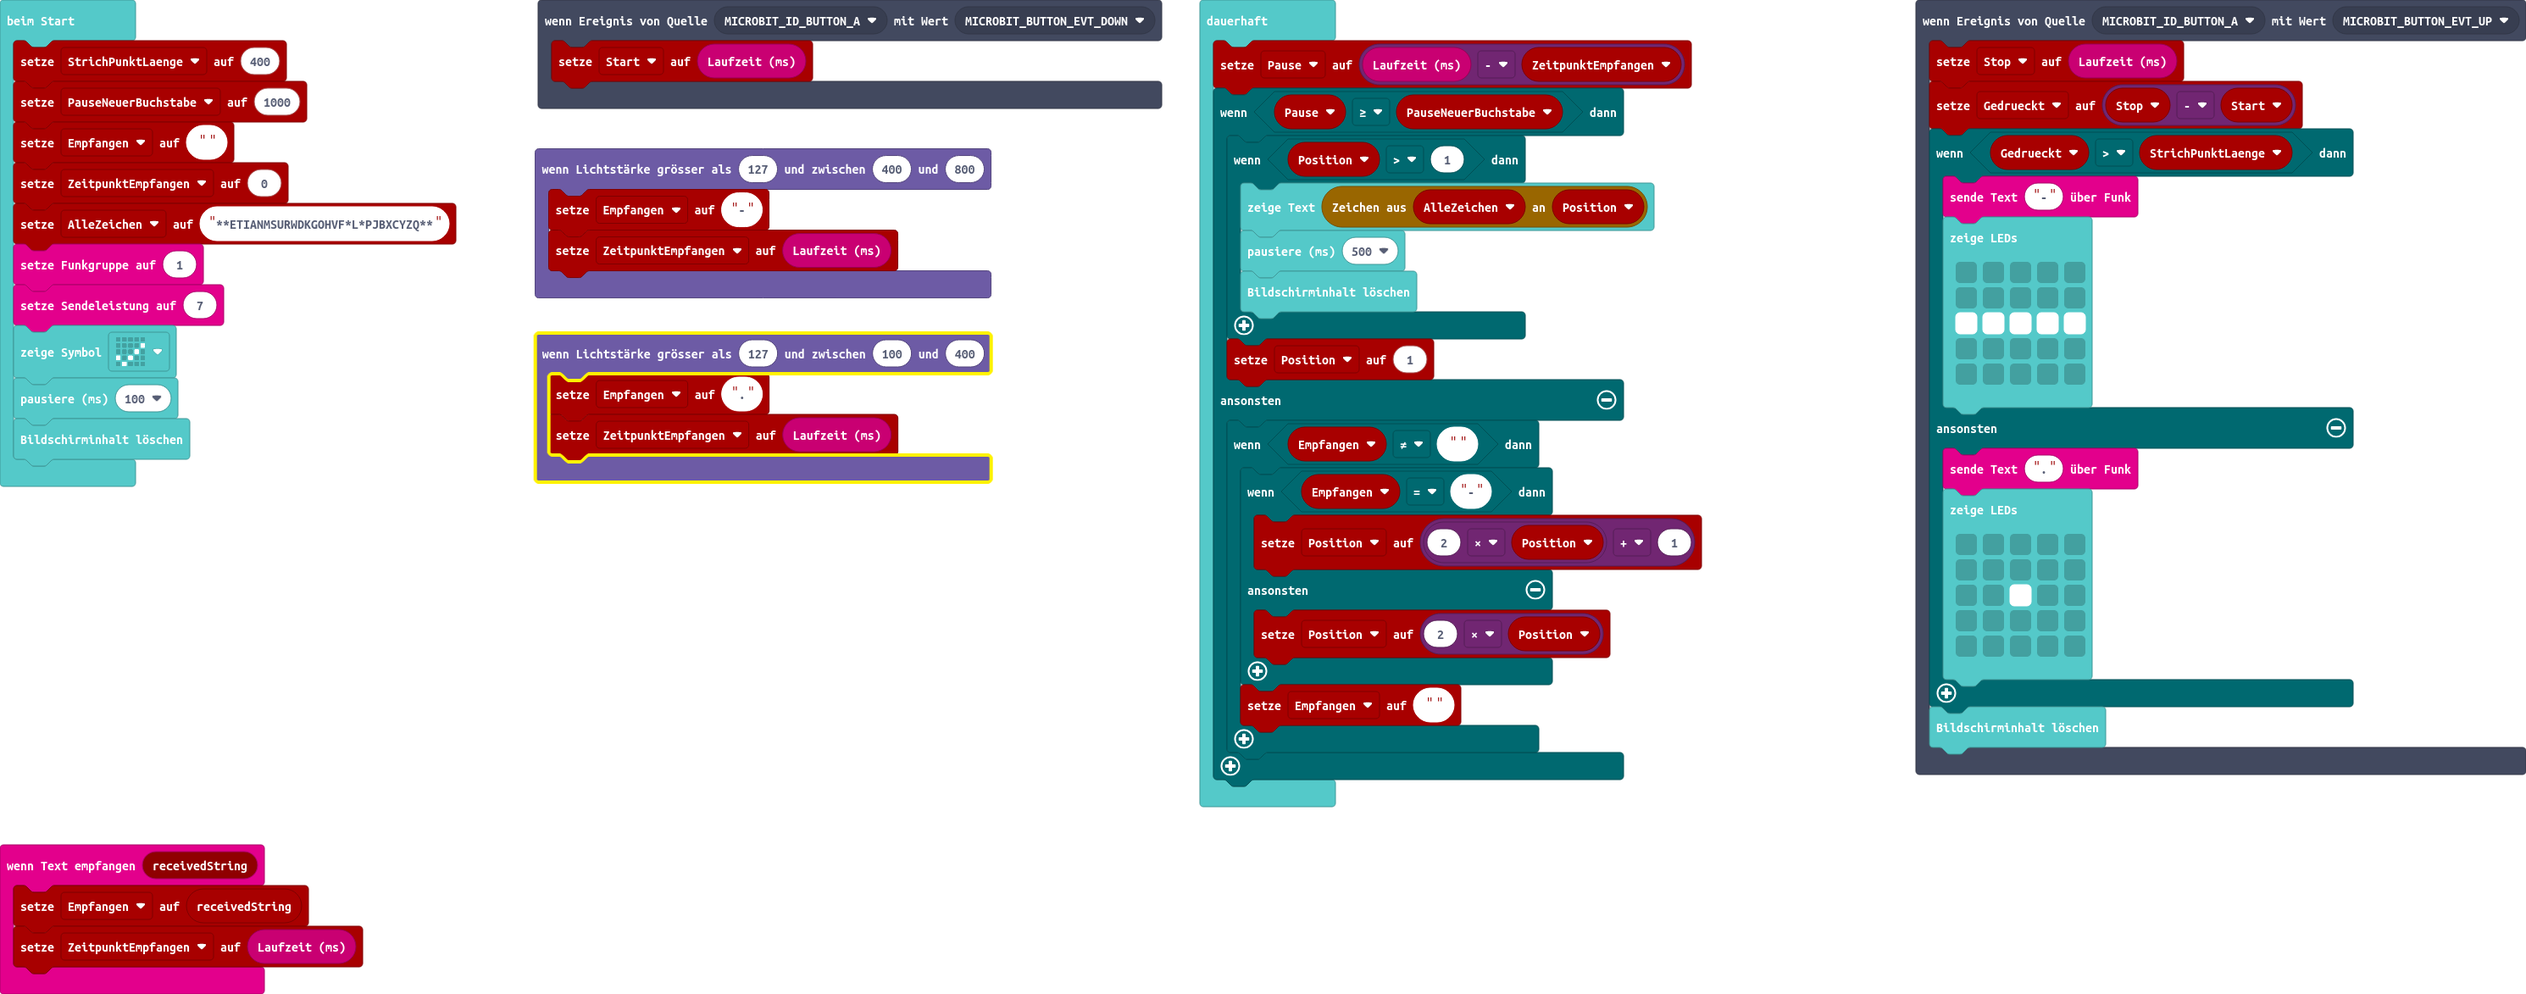
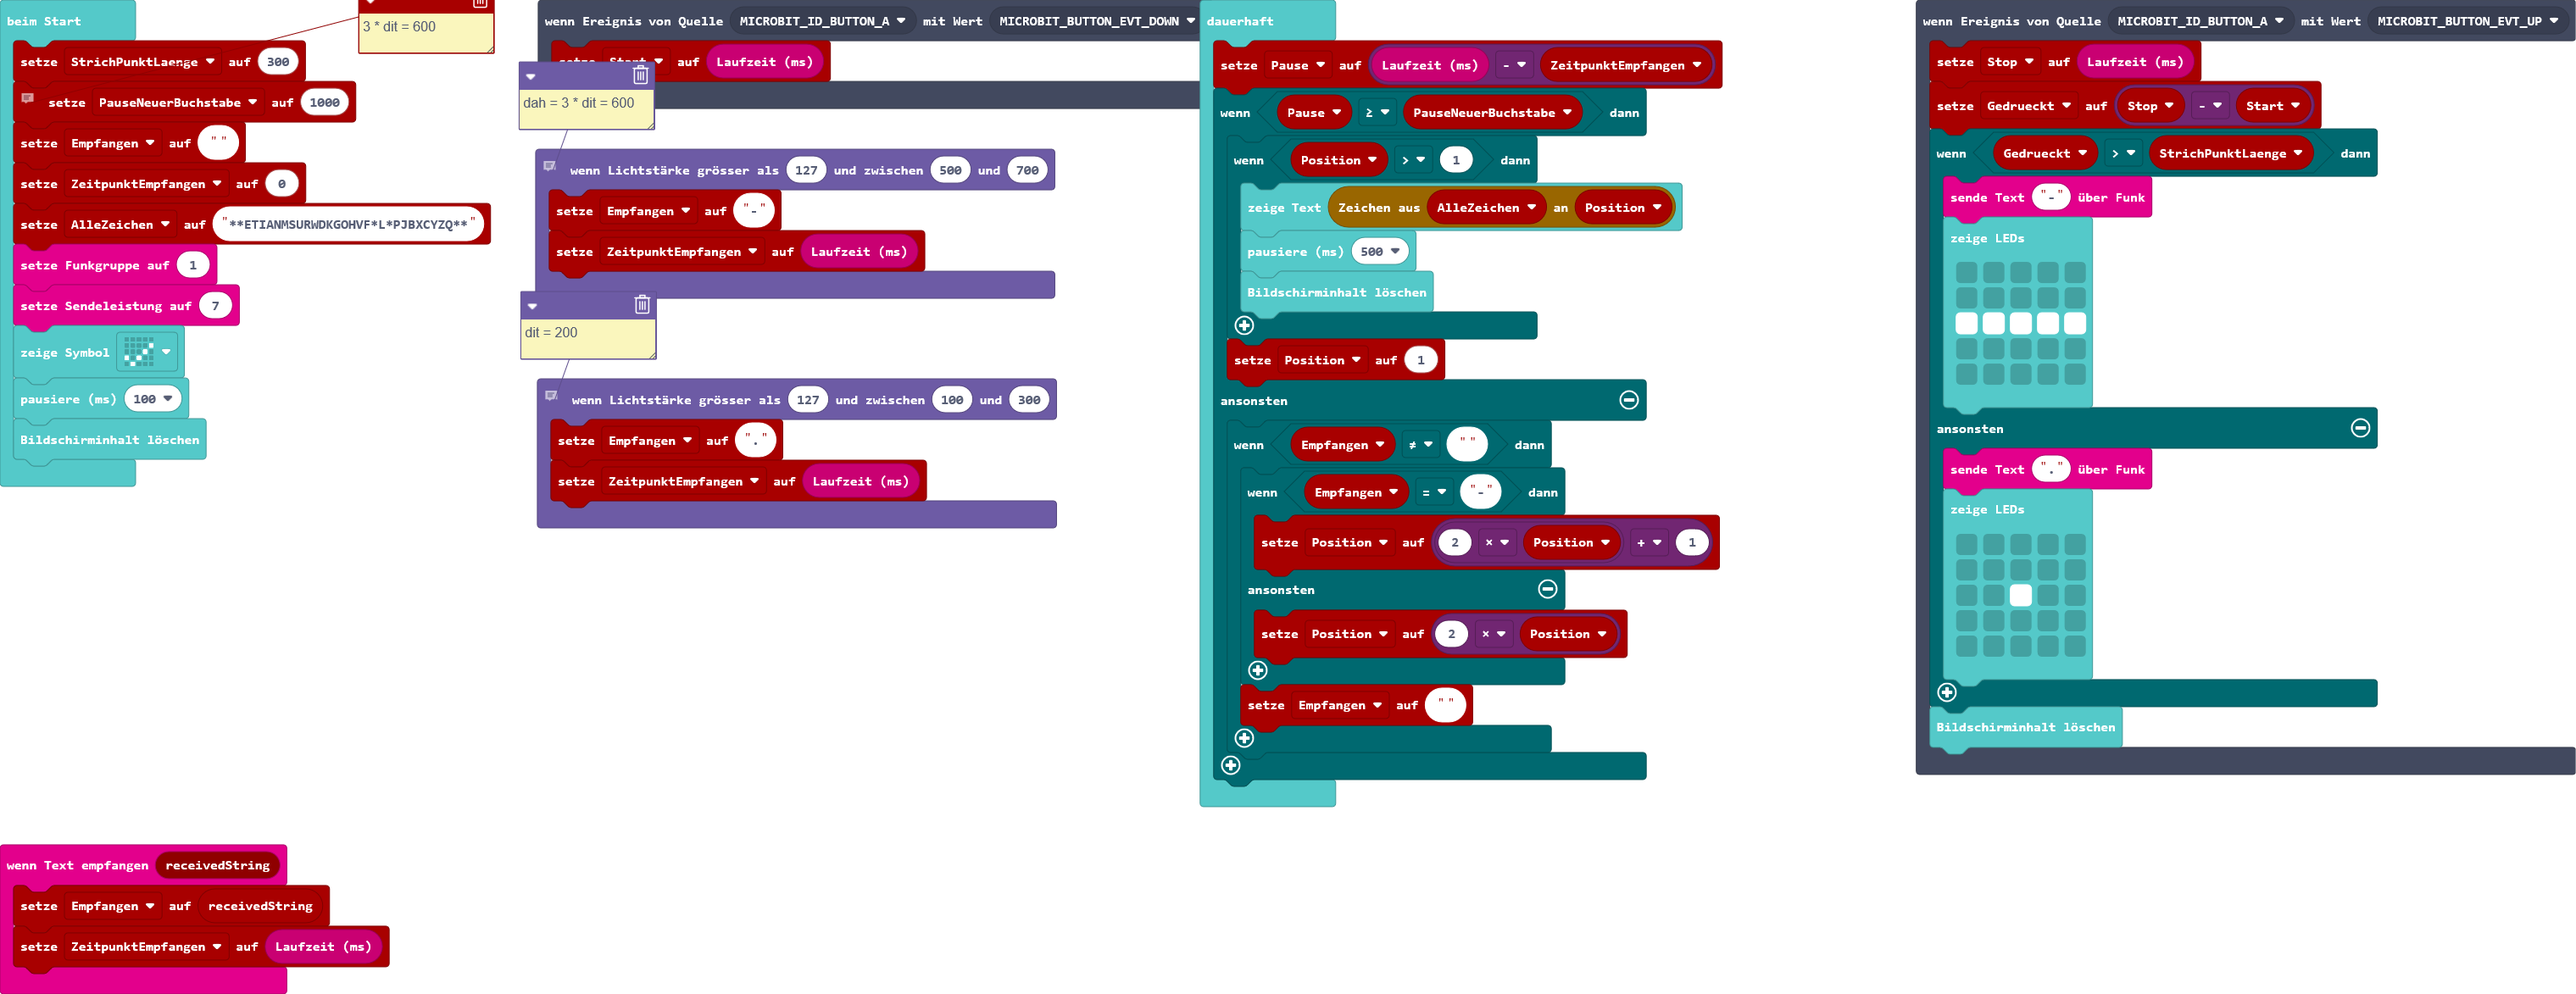
Aktualisiere main.blocks, main.ts, event_extension.ts

diff --git a/main.ts b/main.ts
@@ -22,19 +22,21 @@ control.onEvent(EventBusSource.MICROBIT_ID_BUTTON_A, EventBusValue.MICROBIT_BUTT
     }
     basic.clearScreen()
 })
+// dah = 3 * dit = 600
+Event_Extension.LightPulse(127, 500, 700, function () {
+    Empfangen = "-"
+    ZeitpunktEmpfangen = input.runningTime()
+})
 control.onEvent(EventBusSource.MICROBIT_ID_BUTTON_A, EventBusValue.MICROBIT_BUTTON_EVT_DOWN, function () {
     Start = input.runningTime()
 })
-Event_Extension.LightPulse(127, 400, 800, function () {
-    Empfangen = "-"
+// dit = 200
+Event_Extension.LightPulse(127, 100, 300, function () {
+    Empfangen = "."
     ZeitpunktEmpfangen = input.runningTime()
 })
 radio.onReceivedString(function (receivedString) {
     Empfangen = receivedString
-    ZeitpunktEmpfangen = input.runningTime()
-})
-Event_Extension.LightPulse(127, 100, 400, function () {
-    Empfangen = "."
     ZeitpunktEmpfangen = input.runningTime()
 })
 let Position = 0
@@ -45,7 +47,8 @@ let Stop = 0
 let ZeitpunktEmpfangen = 0
 let Empfangen = ""
 let StrichPunktLaenge = 0
-StrichPunktLaenge = 400
+StrichPunktLaenge = 300
+// 3 * dit = 600
 let PauseNeuerBuchstabe = 1000
 Empfangen = ""
 ZeitpunktEmpfangen = 0

diff --git a/event_extension.ts b/event_extension.ts
@@ -39,6 +39,7 @@ control.inBackground(function () {
                 if (TimePulseHigh > pulse_low && TimePulseHigh < pulse_high) {
                     pulsed = true;
                 }
+                LightPulseHigh = false;
             }
         }
         if (pulsed) {
